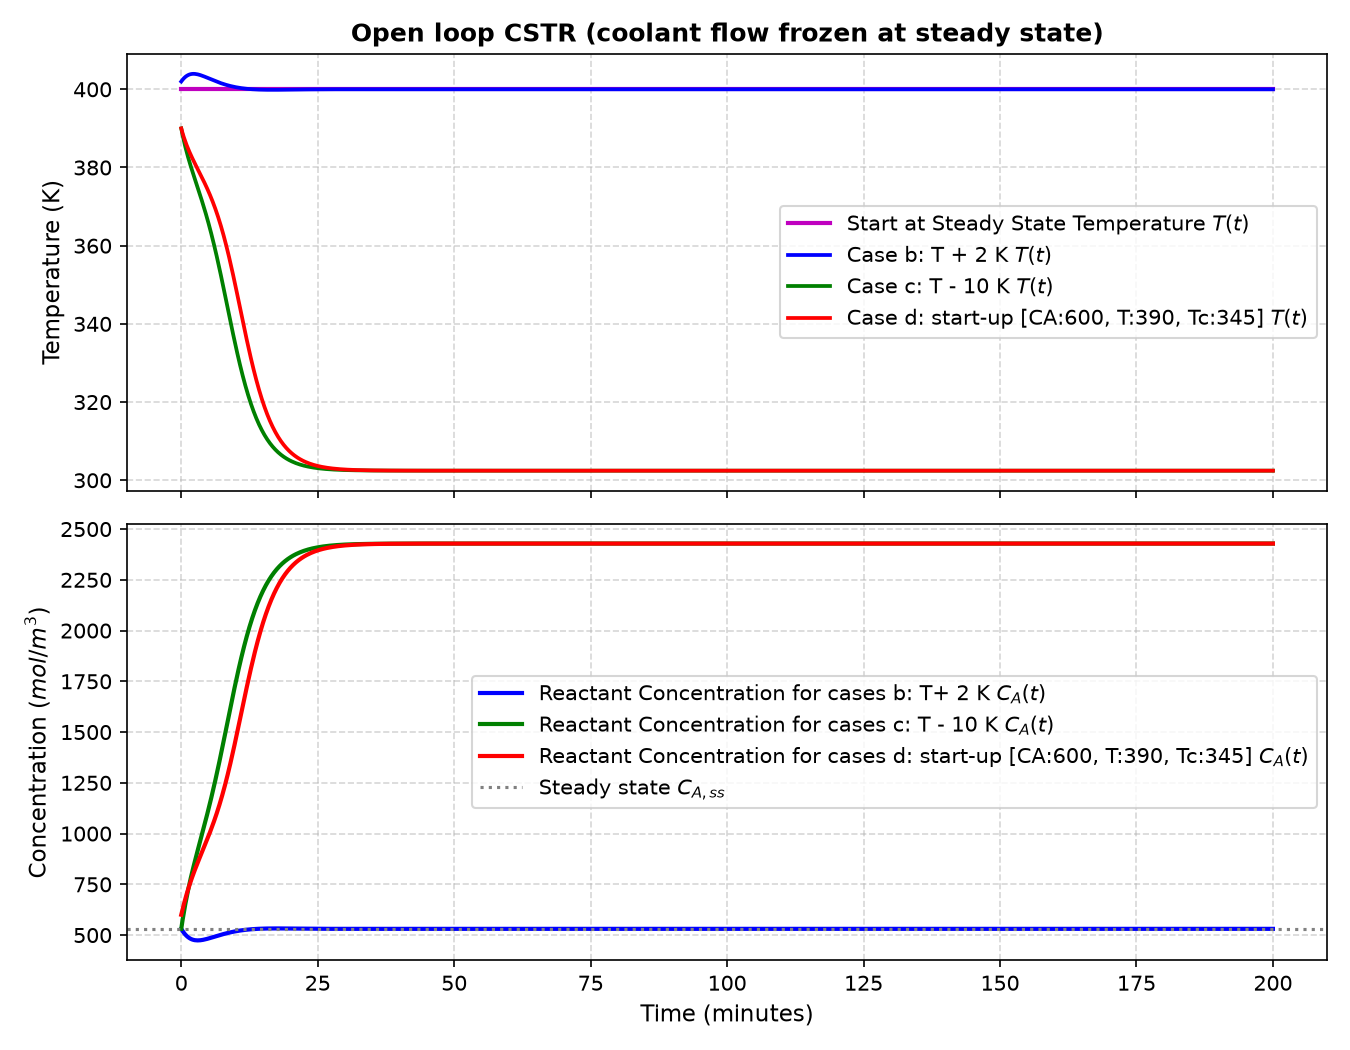
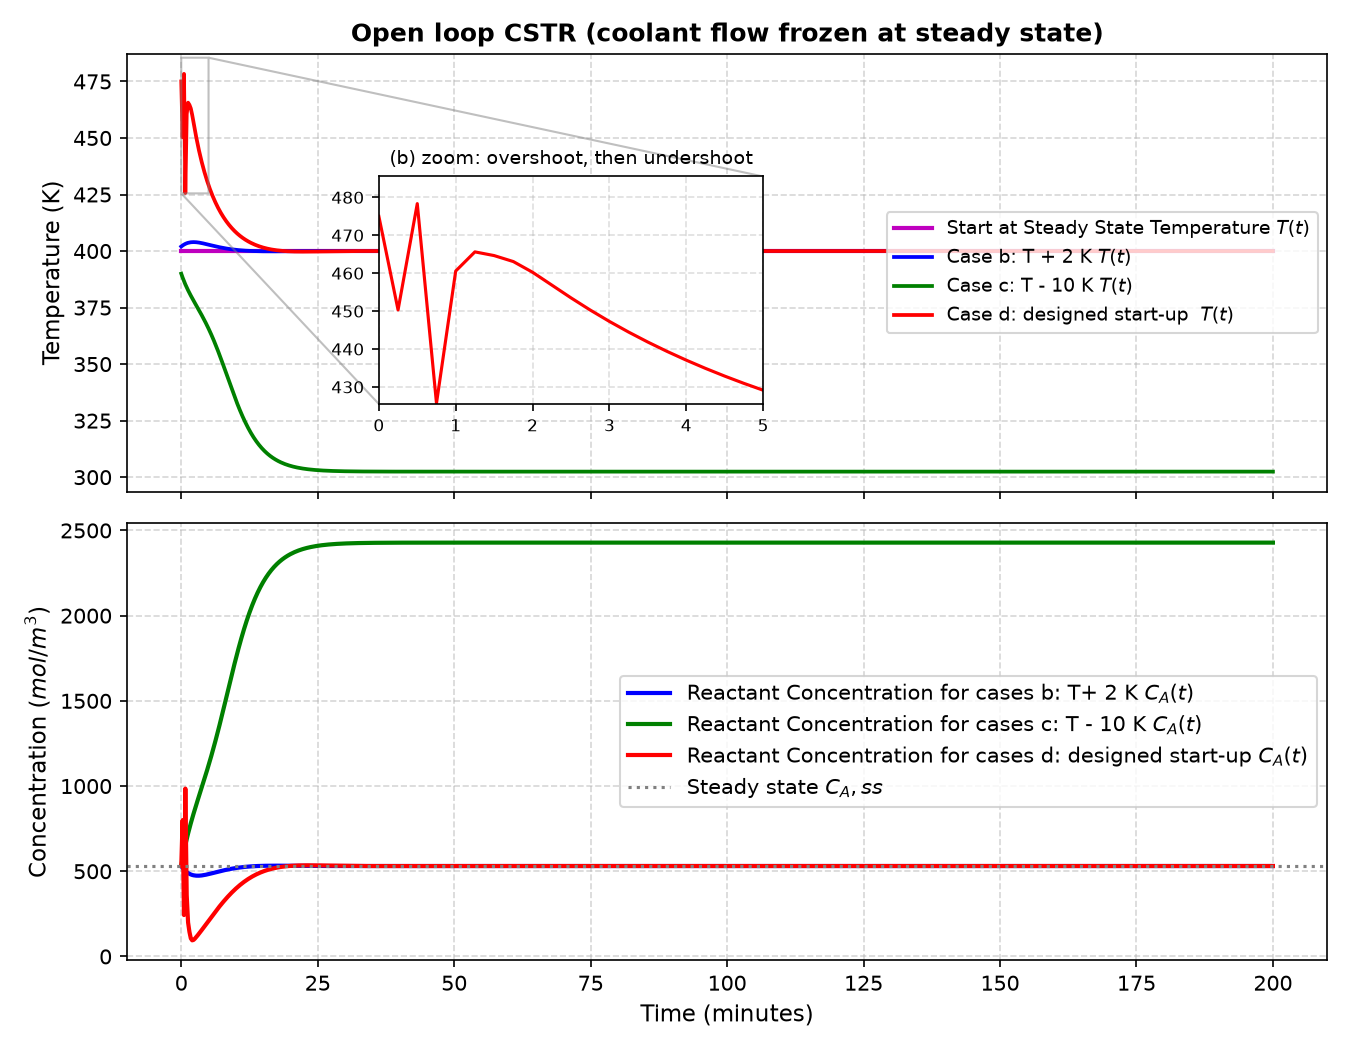
added a high reactor temperature reactor design input and plotted the results

diff --git a/analysis/open_loop.py b/analysis/open_loop.py
@@ -35,7 +35,7 @@ if __name__ == "__main__":
     y_initial = [C_A, T, Tc]         #initial state vector from Steady State
     y_b = [C_A, T + 2.0, Tc]         #b case: Temperature changed
     y_c = [C_A, T -10.0, Tc]         #c case: Temperature changed
-    y_d = [600.0, 390.0, 345.0]      #d case: (designed start up values)
+    y_d = [C_A, 475.0, Tc]      #d case: (designed start up values)
 
 
     time, states_initial = solve_cstr_dynamic(y_initial, t_range, h, mc)
@@ -89,12 +89,23 @@ if __name__ == "__main__":
         states_d[:, 1],
         "r-",
         linewidth=1.8,
-        label="Case d: start-up [CA:600, T:390, Tc:345] $T(t)$",
+        label="Case d: designed start-up  $T(t)$",
     )
     ax1.set_title("Open loop CSTR (coolant flow frozen at steady state)", fontweight="bold")
     ax1.set_ylabel("Temperature (K)", fontsize=11)
     ax1.grid(True, linestyle="--", alpha=0.5)
-    ax1.legend(loc="center right")
+    ax1.legend(loc="center right", fontsize=9)
+
+    # Inset: zoom on case (b)
+    axins = ax1.inset_axes([0.21, 0.20, 0.32, 0.52])
+    axins.plot(time, states_d[:, 1], "r-", linewidth=1.5)
+    axins.axhline(T, color="gray", linestyle=":", linewidth=1)
+    axins.set_xlim(0, 5)
+    axins.set_ylim(425.5, 485.5)
+    axins.set_title("(b) zoom: overshoot, then undershoot", fontsize=9)
+    axins.tick_params(labelsize=8)
+    axins.grid(True, linestyle="--", alpha=0.4)
+    ax1.indicate_inset_zoom(axins, edgecolor="gray")
     
     #Subplot 2: Reactant Concentration
     
@@ -117,10 +128,10 @@ if __name__ == "__main__":
     states_d[:, 0],
     "r-",
     linewidth=2,
-    label="Reactant Concentration for cases d: start-up [CA:600, T:390, Tc:345] $C_A(t)$",
+    label="Reactant Concentration for cases d: designed start-up $C_A(t)$",
     )
    
-    ax2.axhline(C_A, color="gray", linestyle=":", label=r"Steady state $C_{A,ss}$")
+    ax2.axhline(C_A, color="gray", linestyle=":", label="Steady state $C_A,ss$")
     ax2.set_xlabel("Time (minutes)", fontsize=11)
     ax2.set_ylabel("Concentration ($mol/m^3$)", fontsize=11)
     ax2.grid(True, linestyle="--", alpha=0.5)

diff --git a/notes/week3.md b/notes/week3.md
@@ -6,7 +6,7 @@ Started: October 14th 2026
 non-adiabatic, non-isothermal CSTR with cooling jacket with internal coils using cooling water. Coolant mass flow is manipulated to keep reactor operating temperature at T = 400k. Will build a PI controller.
 ## What broke, and what fixed it
 UA was set to 1000 W/k which didnt make sense it was impossible. Changed it to 10,000 W/K. Lots of problems with making sure units were consistent throughout. Had problems with kWatts and Watts. The heat removal and generation plots were not graphing correctly. diagnosed a units problem in the code and realiazed I was calculating the coolant temperature from an array of 500 elements. Fixed temperature at 400 and collected constants at T = 400 K to obatin the coorect coolant temperature and made sure I was using the reference temperature for the arrenhius equation instead of the feed temperature. Made changes to the model as i went: changed model from fixing the fractional conversion to fixing reactor temperature, checked jacket area size for the conductance value and realized cooling coils were needed for that value of UA, 1. if space-time is fixed then conversion is fixed 2. if target conversion is fixed then reactor space time and vessel volume is fixed for a given v0 3. if reactor Temperature is fixed then botht he heat generation terms and heat removal terms are known constants.
-differentiated the heat removal term by keeping Tc constant. Then differentiated the heat removal term with mc constant (mass flow rate of coolant). There was a difference of about 20% bwetween the two numbers. The differentiation with keeping cooolant flow rate constant was much more involved than i initially thought. My numbers and claude's numbers didnt line up on the dQremoved/dT|mc=constant.typed UA = 60000,0 intead of a . python takes that as a 2 member array. after much time finding this bug i typed UA = 6 million instead of 600k. I couldnt figure out why the Tc almost equaled T for the longest time and went through each individual calculation by hand. finally created temp variables to track down individual calculations and realized UA was 6 million in the code. has to be a better way to write zeros. Used the wrong Cp in the heat removal function on pen and paper and it kept leading to a mismatch with code by a small margin which i attributed to rounding error but claude looked through the math and found exactly where in the function i was using the wrong Cp (coolant instead of feed). In the code everything was right. set deltaH to 25,000 instead of 250,000, nothing would have crashed but the results would have no three steady states or a van heerden check. the heat generation sigmodial part would have flatened. do not put derived quantities in the parameter definition fields. they can not be replaced. learned how to use p = default_params() correctly and how to pass p into functions. 
+differentiated the heat removal term by keeping Tc constant. Then differentiated the heat removal term with mc constant (mass flow rate of coolant). There was a difference of about 20% bwetween the two numbers. The differentiation with keeping cooolant flow rate constant was much more involved than i initially thought. My numbers and claude's numbers didnt line up on the dQremoved/dT|mc=constant.typed UA = 60000,0 intead of a . python takes that as a 2 member array. after much time finding this bug i typed UA = 6 million instead of 600k. I couldnt figure out why the Tc almost equaled T for the longest time and went through each individual calculation by hand. finally created temp variables to track down individual calculations and realized UA was 6 million in the code. has to be a better way to write zeros. Used the wrong Cp in the heat removal function on pen and paper and it kept leading to a mismatch with code by a small margin which i attributed to rounding error but claude looked through the math and found exactly where in the function i was using the wrong Cp (coolant instead of feed). In the code everything was right. set deltaH to 25,000 instead of 250,000, nothing would have crashed but the results would have no three steady states or a van heerden check. the heat generation sigmodial part would have flatened. do not put derived quantities in the parameter definition fields. they can not be replaced. learned how to use p = default_params() correctly and how to pass p into functions. check.py has specific variable names it looks for and specific signature field that has to match otherwise you will get fail messages even though the code is correct. lots of bugs plotting the dynamic results. ran into a wierd bug where brackets in the output line on a display character caused plotlib to crash, causes was a bracket i deleted and had to put back in. still not clear why a bracket in a comment string would cause a crash. fixed line widths and colors, legend, display bugs and learned to write 2 plots in one.
 <!-- The most valuable section. Every bug you diagnose is a story you can
      tell in an interview. Root cause, not just symptom. -->
 
